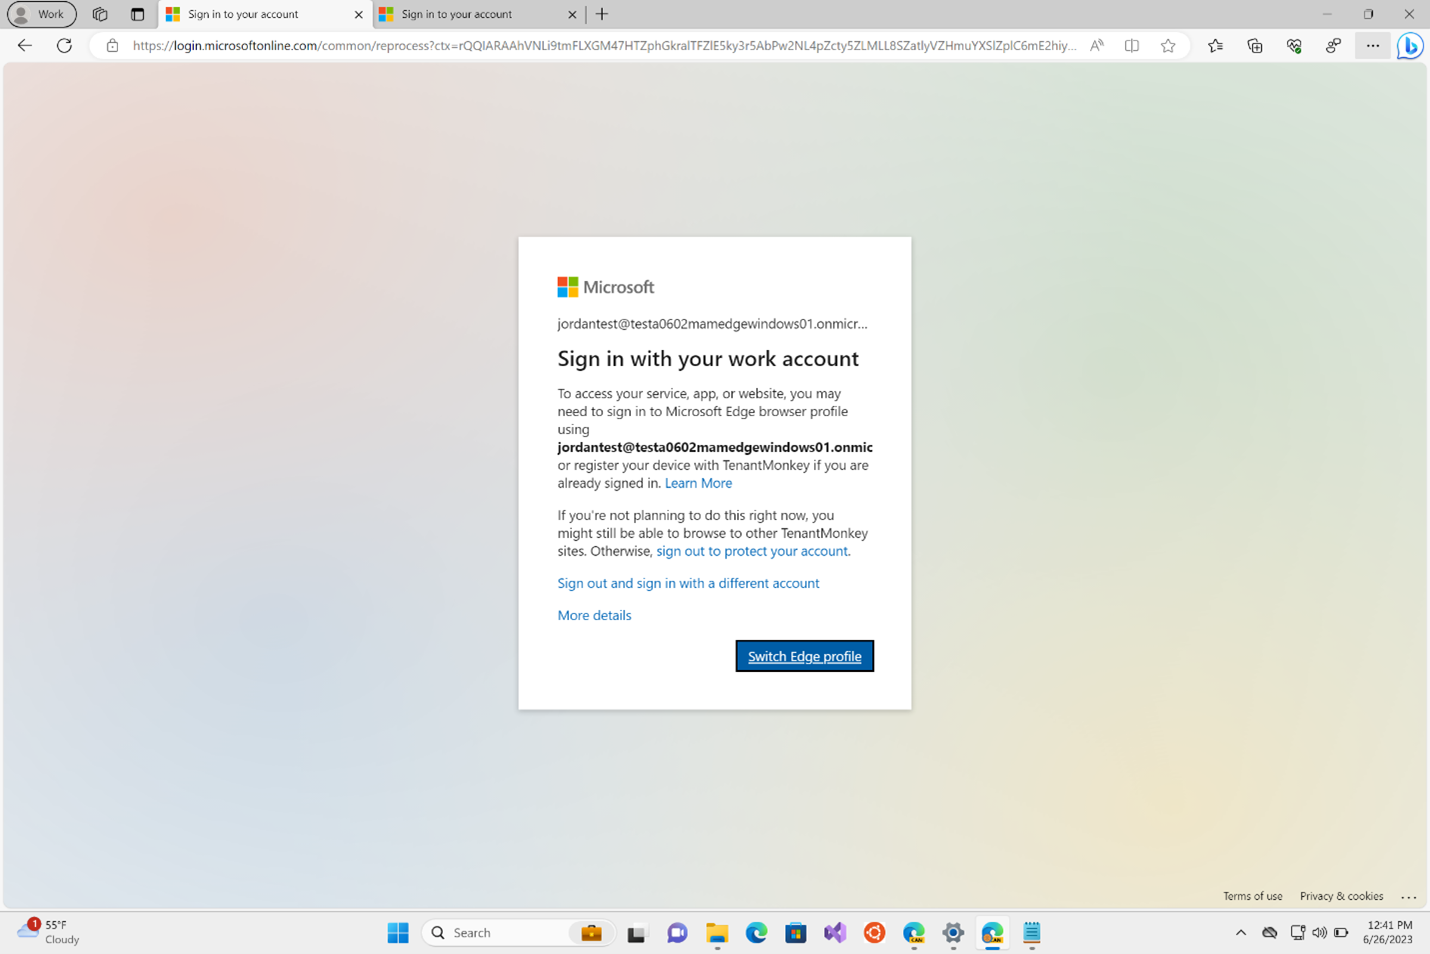
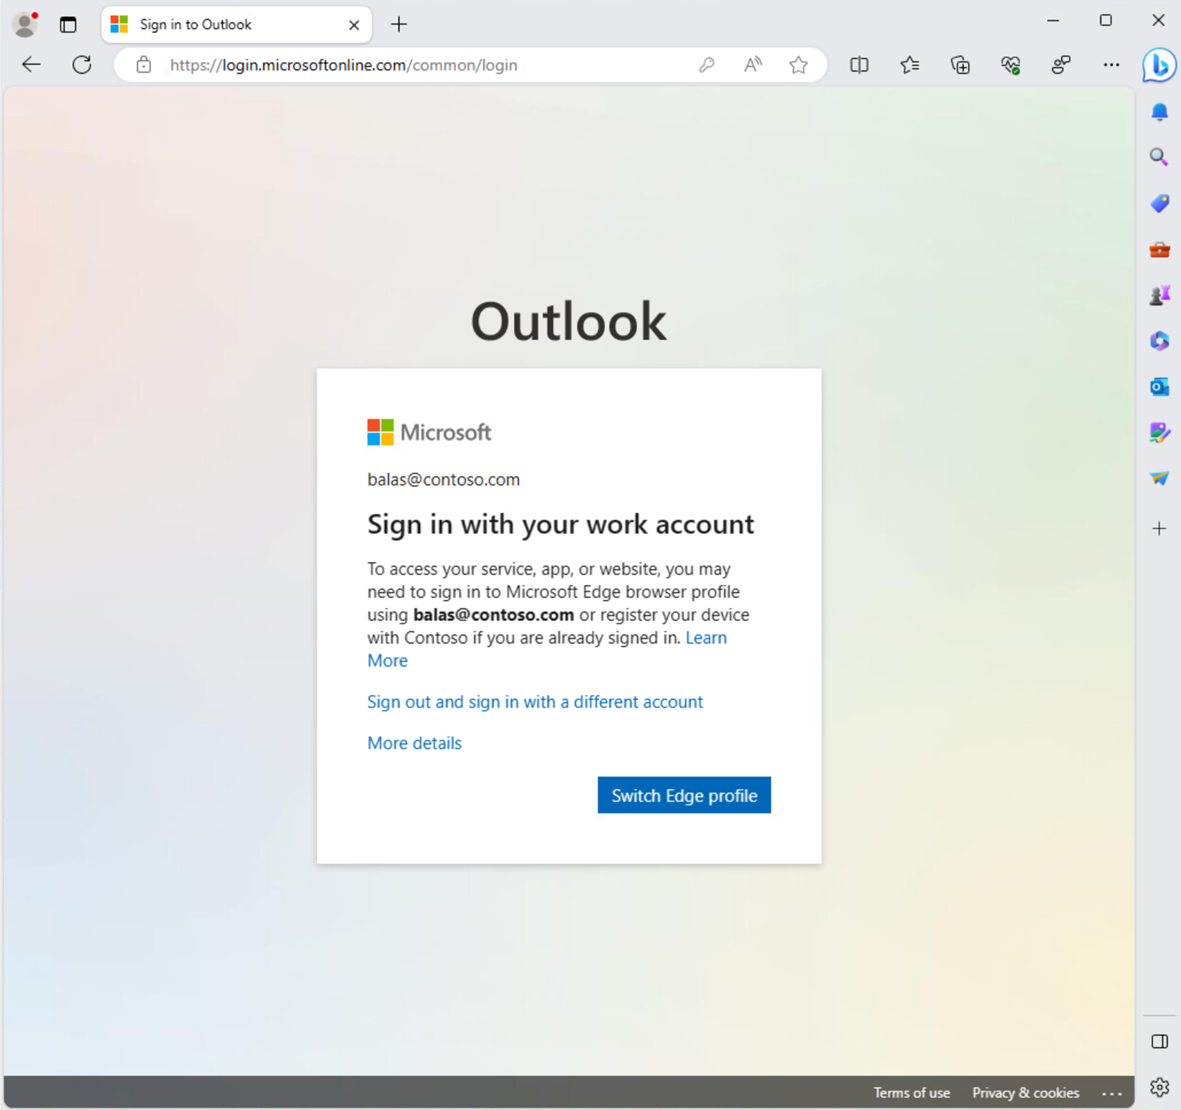
rework with Jordan's feedback

diff --git a/edgeenterprise/ms-edge-security-conditional-access.md b/edgeenterprise/ms-edge-security-conditional-access.md
@@ -27,16 +27,16 @@ Microsoft Edge natively supports Microsoft Entra Conditional Access. There's no 
 
 The respective Microsoft Entra ID account needs to be connected to Windows, so a [Primary Refresh Token](/azure/active-directory/devices/concept-primary-refresh-token) is sent along with the request for evaluation in the Conditional Access policy. To add a work or school account to Windows, follow these steps to [Add or remove accounts on your PC](https://support.microsoft.com/windows/add-or-remove-accounts-on-your-pc-104dc19f-6430-4b49-6a2b-e4dbd1dcdf32#WindowsVersion=Windows_10). There are limits to the number of work or school accounts connected to Windows, which is documented in this [device management FAQ](/azure/active-directory/devices/faq#i-can-t-add-more-than-3-azure-ad-user-accounts-under-the-same-user-session-on-a-windows-10-11-device--why). Note that with Microsoft Edge for iOS and Android version 108 or later, a device registered in Microsoft Entra ID can provide a Device ID without signing into Microsoft Edge.
 
-On a compliant device, the identity accessing the resource should match the identity on the profile. If it doesn't, you'll see a message like the one in the following screenshot. In this example, `testadmin@evostsoneboxtest.com` is the sign-in account needed to access the resource.
+Your admin might require users to be signed into Microsoft Edge to get access to protected resources. This is needed for resources that are protected by Mobile Application Management (MAM) or Mobile Device Management (MDM). The identity accessing the resource should match the identity on the profile. If it doesn't, you'll see a message like the one in the following screenshot. In this example, `balas@contosa.com` is the sign-in account needed to access the resource.
 
 > [!NOTE]
-> If a device isn't compliant, see [Mobile Application Management (MAM) for unenrolled devices in Microsoft Intune](#mobile-application-management-mam-for-unenrolled-devices-in-microsoft-intune) in this article.
+> If a device isn't MDM enrolled and the user doesn't want the device to be enrolled, see [Mobile Application Management (MAM) for unenrolled devices in Microsoft Intune](#mobile-application-management-mam-for-unenrolled-devices-in-microsoft-intune) in this article.
 
 ![Conditional access message in browser](./media/edge-security/microsoft-edge-security-conditional-access.png)
 
-To continue, you have to switch to the required profile (if you have one) or create a profile with matching identity.
+To continue, you have to switch to the required profile (if you have one) or create a profile with matching identity. Select **Switch Edge profile** and Microsoft Edge will guide you through the sign in process. For more information, see [Require an app protection policy on Windows devices (preview)](/azure/active-directory/conditional-access/how-to-app-protection-policy-windows).
 
-To sign in and work with your profile, select the account picture in the top right corner of the browser. You can use the dropdown menu to complete the following tasks:
+You can also work with profile settings by selecting the account picture in the browser and using the dropdown menu for the following tasks:
 
 - Manage your profiles - Click the gear icon (**Manage profile settings**) to open Edge Settings.
 - Pick an existing profile - Select the profile name.
@@ -44,9 +44,6 @@ To sign in and work with your profile, select the account picture in the top rig
 - Create a new work profile - Select **Other profiles** and then select **Set up a new work profile**. The "Other profiles" option also lets you **Browse as guest** or **Browse in Kids Mode**.
 
 This support is available across all platforms, including all supported versions of Windows and macOS.
-
-> [!NOTE]
-> Conditional Access isn't supported in InPrivate mode because there's no concept of a signed in profile for this mode.
 
 ### How to deploy Conditional Access in Microsoft Entra ID
 
@@ -56,15 +53,9 @@ This support is available across all platforms, including all supported versions
 
 MAM for unenrolled devices is commonly used for personal or bring your own devices (BYOD). MAM is an option for users who don't enroll their personal devices, but still need access to organization email, Teams meetings, and more.  For more specific information on MAM, see [What is Microsoft Intune app management?](/mem/intune/apps/app-management).
 
-Conditional access might be blocked for the following reasons.
+Conditional access might also be blocked because there's an account issue.
 
-#### The user isn't signed into Microsoft Edge
-
-Your admin might require users to be signed into Microsoft Edge to get access to MAM protected resources. Select **Switch Edge profile** and Microsoft Edge will guide you through the sign in process. For more information, see [Require an app protection policy on Windows devices (preview)](/azure/active-directory/conditional-access/how-to-app-protection-policy-windows).
-
-#### There's an account issue
-
-If there's a pre-existing, unregistered account, like `user@contoso.com` in Microsoft Edge, or if a user signs in without registering using the **Heads Up** page, then the account isn't properly enrolled in MAM. This configuration blocks the user from being properly enrolled in MAM. To fix this, sign in by entering the email address using different upper/lower case combinations. For example, if `RenataHall@fourthcoffee.com` was previously used to sign in, use `renatahall@fourthcoffee.com` to sign in. The user is shown a prompt. Clear the **Allow my organization to manage my device box** and then select **OK**. This action registers the device with your account and you'll be able to access your resources.
+If there's a pre-existing, unregistered account, like `user@contoso.com` in Microsoft Edge, or if a user signs in without registering the account, then the account isn't properly enrolled in MAM. This configuration blocks the user from being properly enrolled in MAM. To fix this, sign in by entering the email address using different upper/lower case combinations. For example, if `RenataHall@fourthcoffee.com` was previously used to sign in, use `renatahall@fourthcoffee.com` to sign in. The user is shown a prompt. Clear the **Allow my organization to manage my device box** and then select **OK**. This action registers the device with your account and you'll be able to access your resources.
 
 ## See also
 
